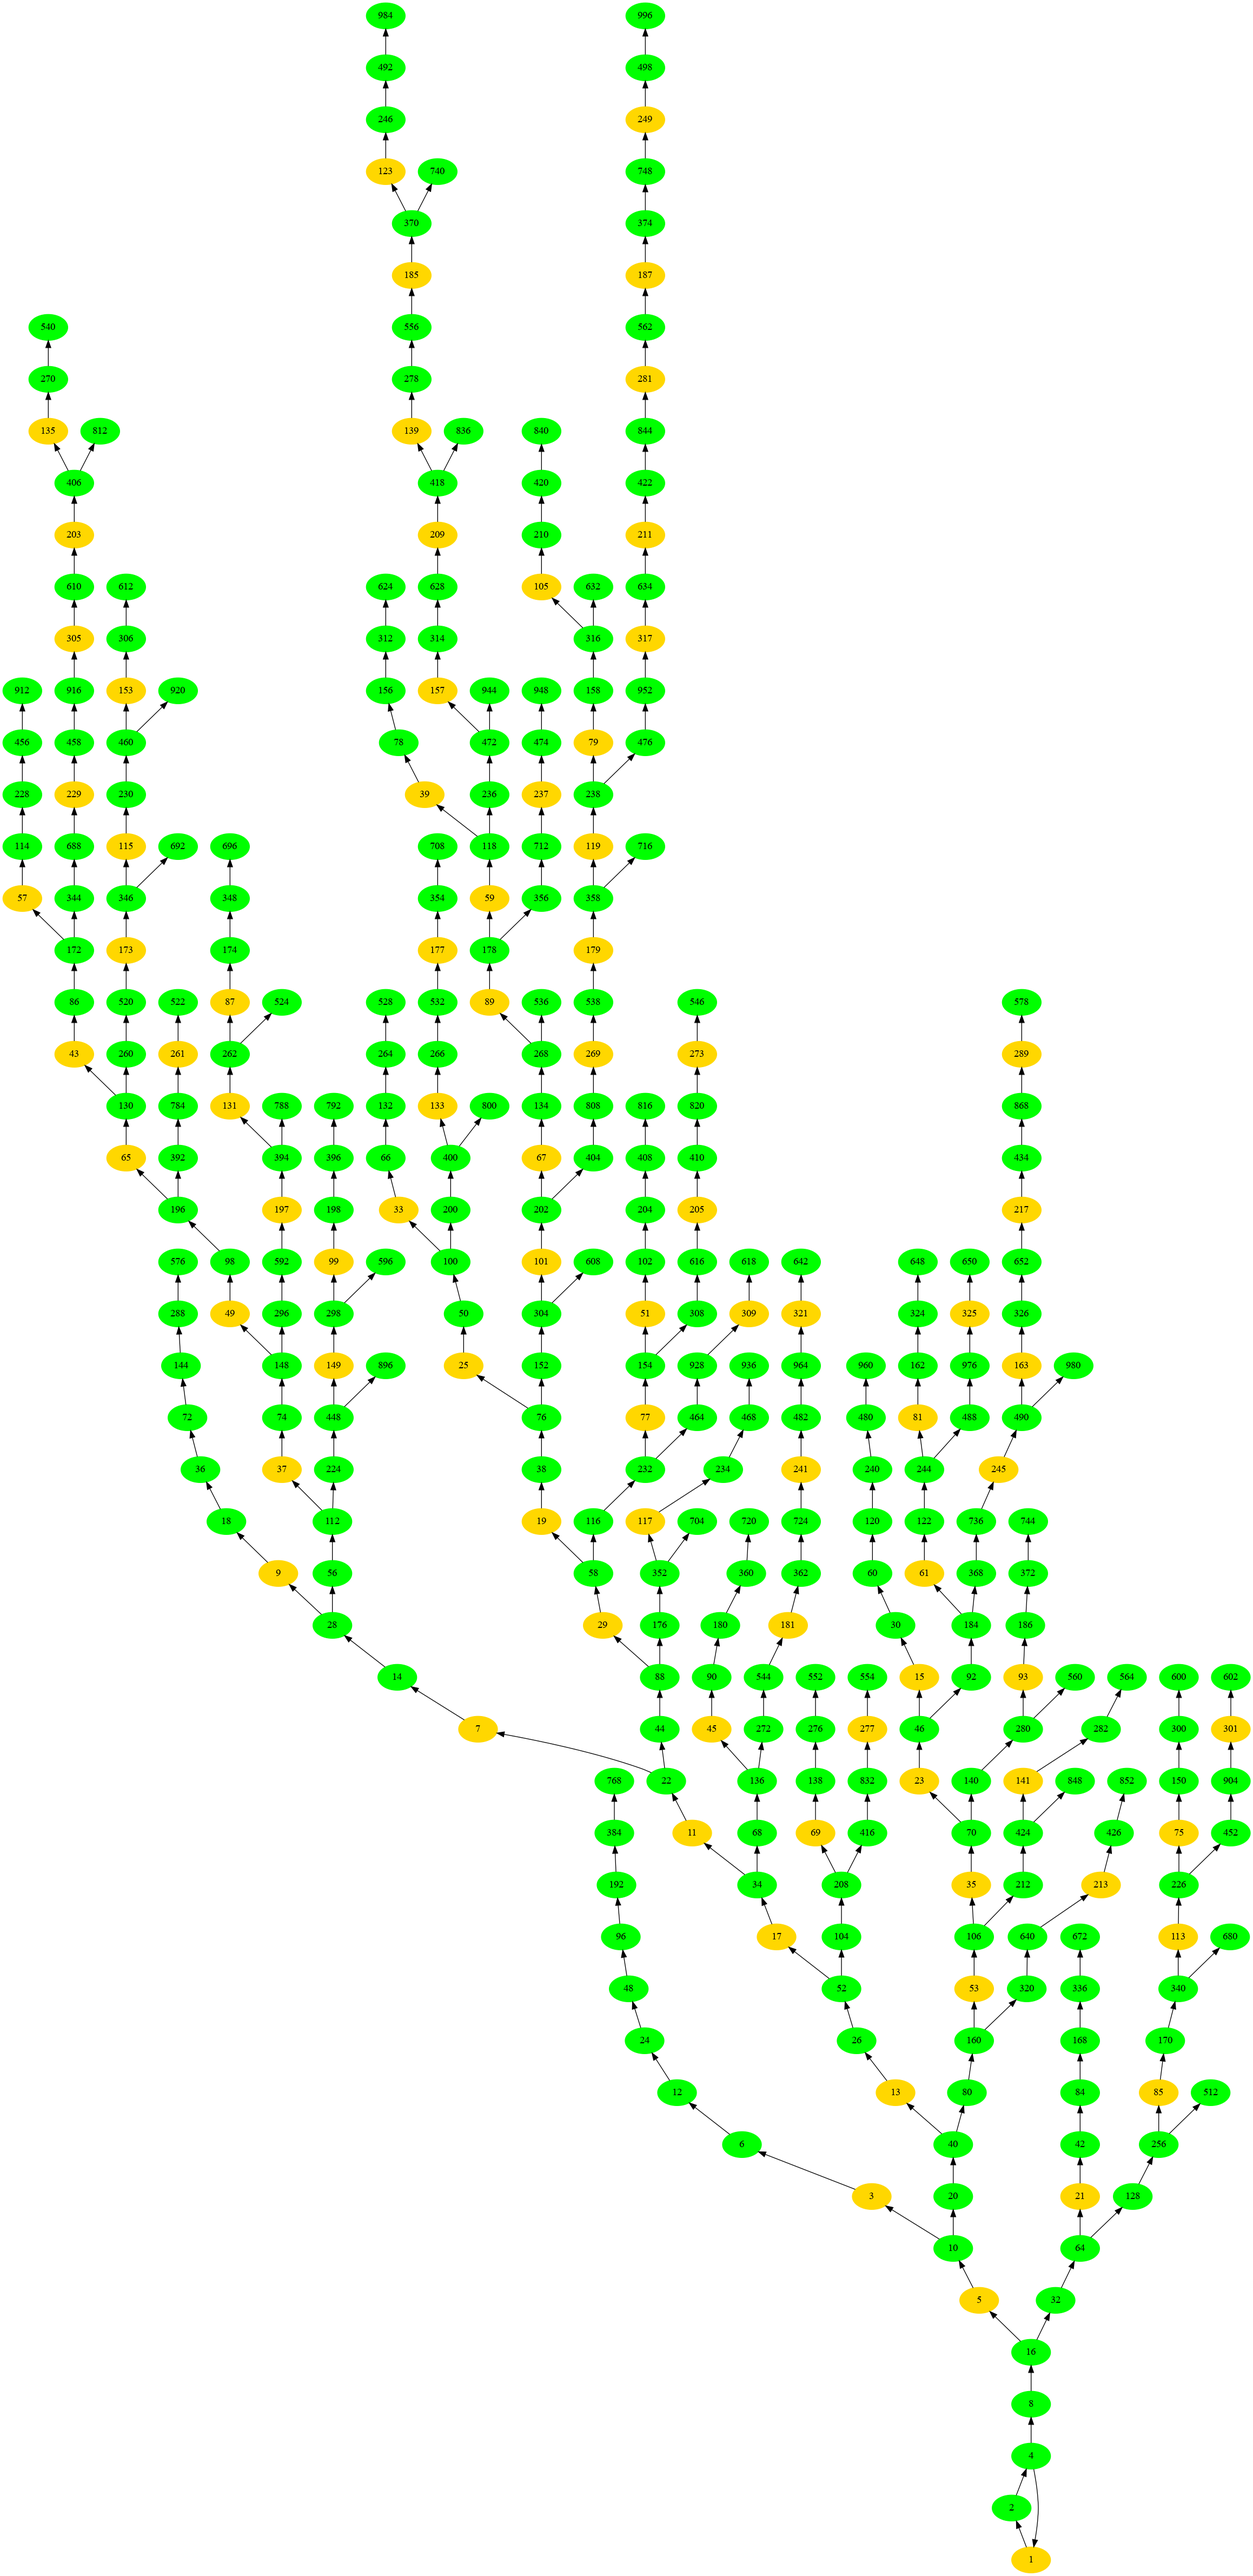
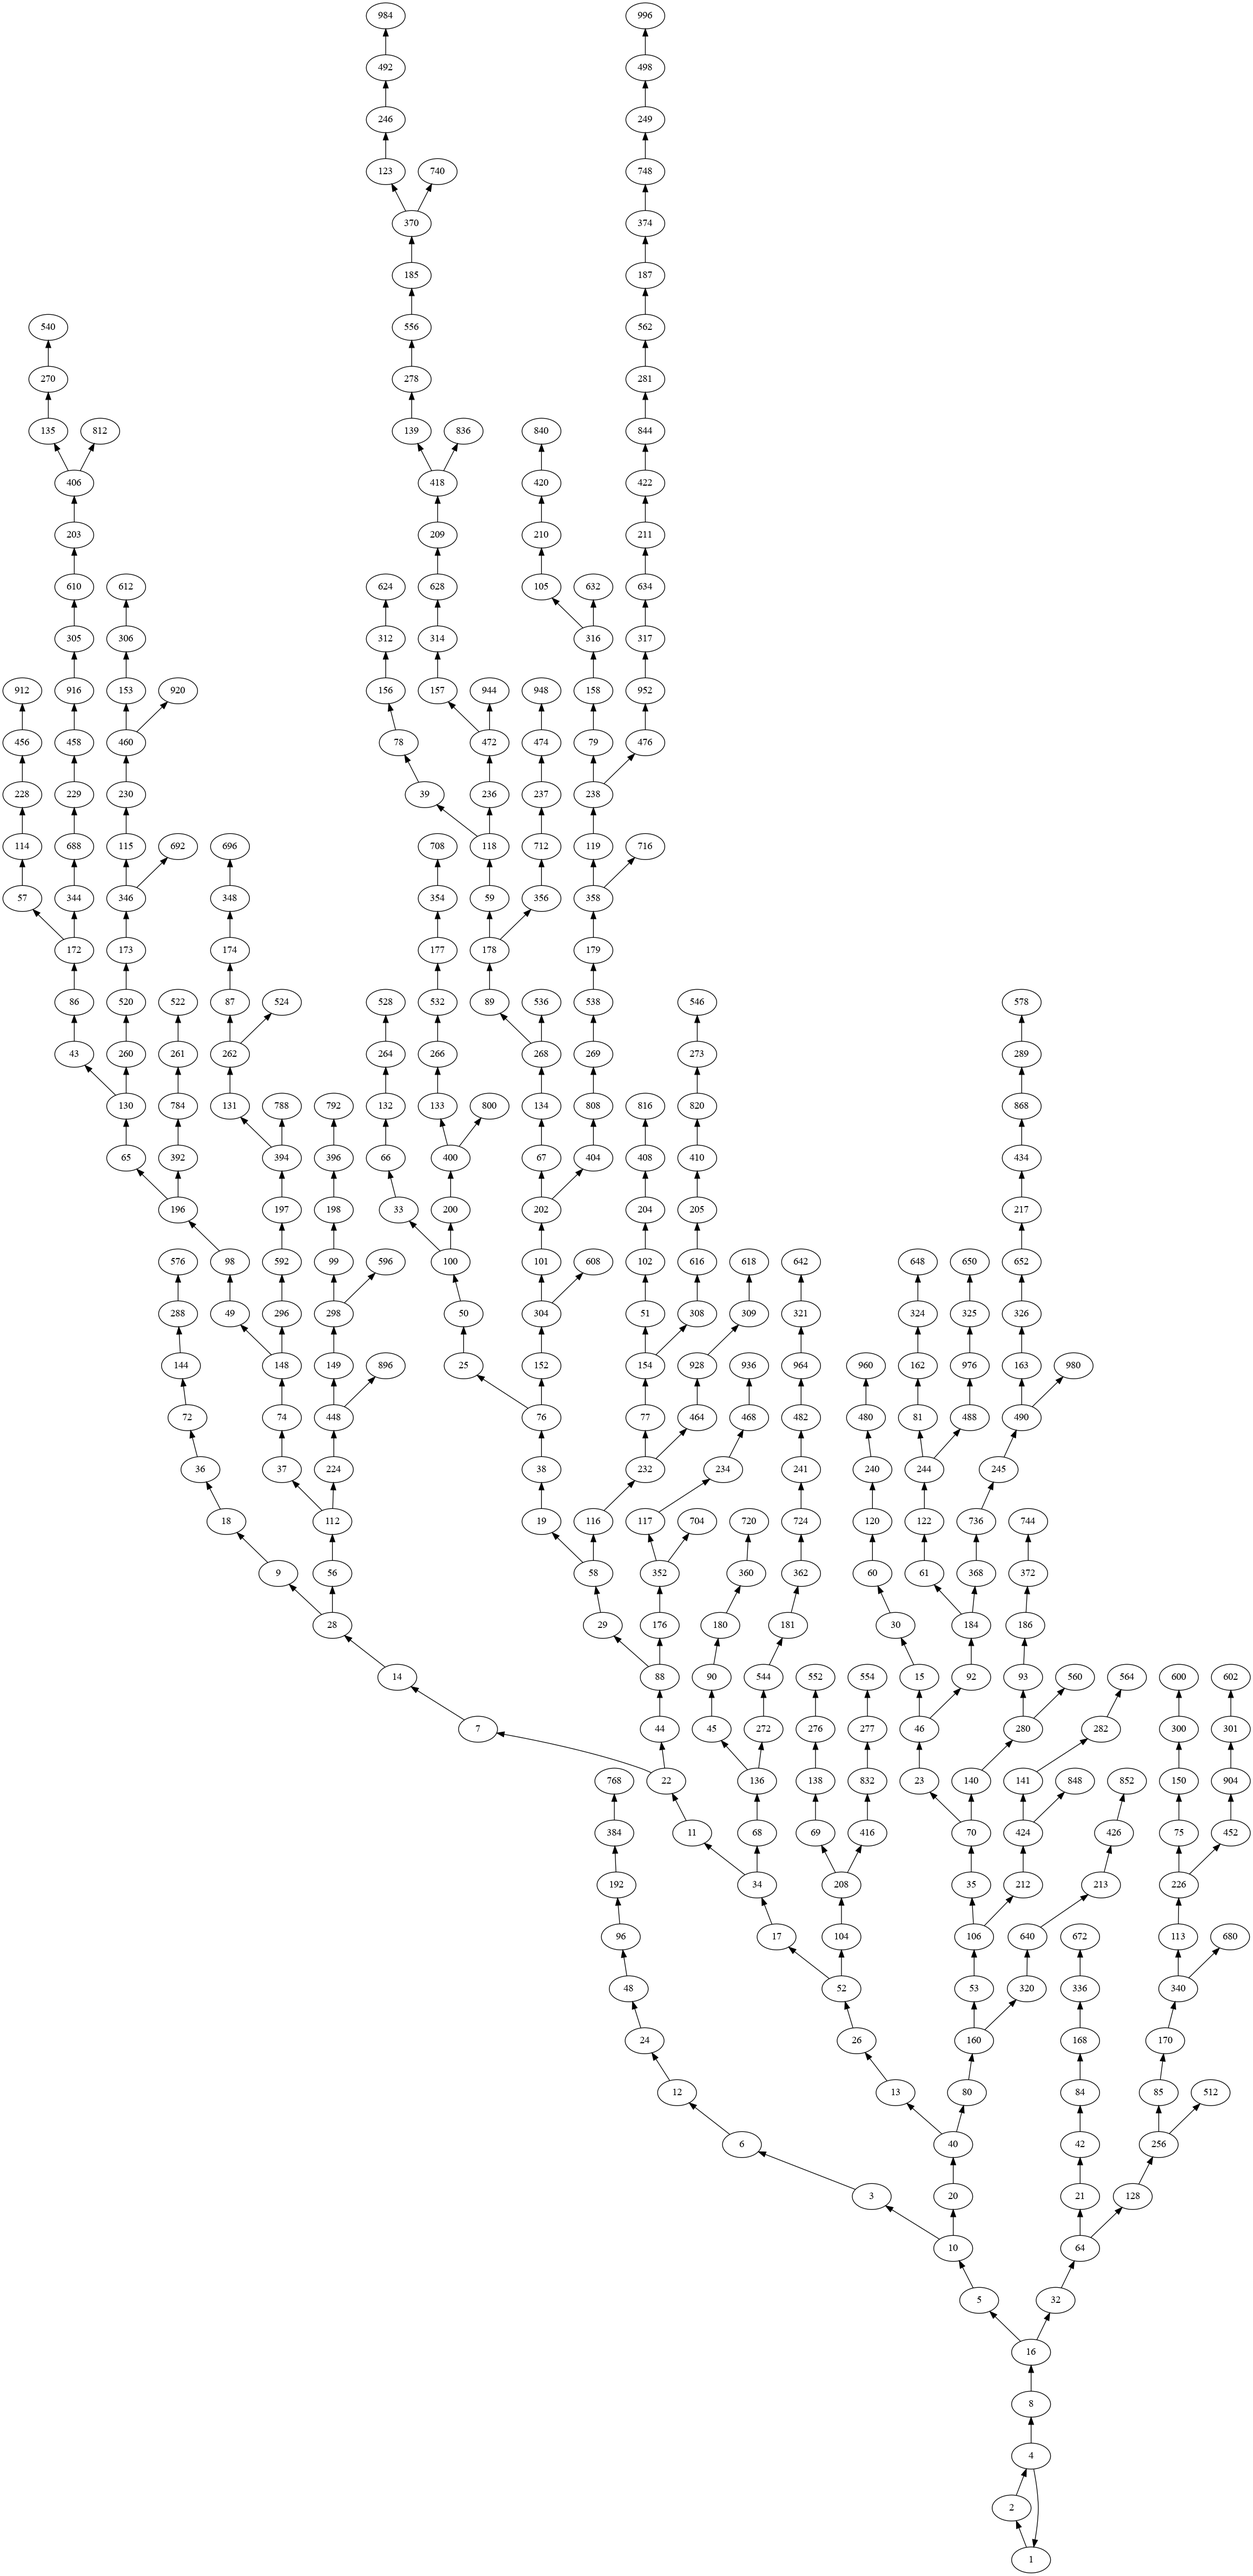
feat: add --tree-fancy argument (#17)
* chore: remove img tree_to_1000.png

This image is not relevant anymore as we have two different options for
the tree.

* chore: add tree image with and without colors

Since we can produce the two versions of the tree, two example images
were added to the repository.

* docs: update README.md

Add images of normal tree and colored tree to the README.md file.

* chore: add --tree-fancy argument

This argument is used as a boolean to produce a dot file containing
colors for the nodes.

diff --git a/src/tree.rs b/src/tree.rs
@@ -40,13 +40,16 @@ impl CollatzTree {
         }
     }
 
-    pub fn to_dot_file(&self) -> Result<(), Box<dyn std::error::Error>> {
+    pub fn to_dot_file(
+        &self,
+        colors: bool,
+    ) -> Result<(), Box<dyn std::error::Error>> {
         let filename: &str = &format!("tree_to_{}.dot", self.target);
         let mut file = File::create(filename)?;
 
         writeln!(&mut file, "digraph to_{} {{", self.target)?;
         writeln!(&mut file, "\trankdir=BT;")?;
-        self.define_node_colors(&mut file)?;
+        self.define_node(&mut file, colors)?;
         for (key, value) in self.tree.iter() {
             if let Some(p_1) = value.0 {
                 writeln!(&mut file, "\t{} -> {:?};", key, p_1)?;
@@ -60,22 +63,35 @@ impl CollatzTree {
         Ok(())
     }
 
-    fn define_node_colors(
+    fn define_node(
         &self,
         file: &mut File,
+        with_style: bool,
     ) -> Result<(), Box<dyn std::error::Error>> {
         let mut sorted_keys: Vec<_> = self.tree.keys().copied().collect();
         sorted_keys.sort();
 
-        writeln!(file, "\t1 [color=gold, style=filled];")?;
+        if with_style {
+            writeln!(file, "{}", self.node_with_style(&1_u128))?;
+        } else {
+            writeln!(file, "\t1;")?;
+        }
         for key in sorted_keys.iter().skip(1) {
-            if key % 2 == 0 {
-                writeln!(file, "\t{} [color=green, style=filled];", key)?;
+            if with_style {
+                writeln!(file, "{}", self.node_with_style(key))?;
             } else {
-                writeln!(file, "\t{} [color=gold, style=filled];", key)?;
+                writeln!(file, "\t{};", key)?;
             }
         }
         Ok(())
+    }
+
+    fn node_with_style(&self, n: &u128) -> String {
+        if n % 2 == 0 {
+            format!("\t{} [color=green, style=filled];", n)
+        } else {
+            format!("\t{} [color=gold, style=filled];", n)
+        }
     }
 }
 

diff --git a/src/main.rs b/src/main.rs
@@ -22,6 +22,9 @@ struct Args {
 
     #[arg(short = 't', long = "tree", default_value_t = false)]
     tree: bool,
+
+    #[arg(short = 'T', long = "tree-fancy", default_value_t = false)]
+    tree_fancy: bool,
 }
 
 fn main() -> Result<(), Box<dyn std::error::Error>> {
@@ -35,9 +38,9 @@ fn main() -> Result<(), Box<dyn std::error::Error>> {
         let collatz_sequence = CollatzSequence::new(s);
         println!("{:?}", collatz_sequence);
 
-        if args.tree {
+        if args.tree || args.tree_fancy {
             let t = CollatzTree::new(s);
-            return t.to_dot_file();
+            return t.to_dot_file(args.tree_fancy);
         }
 
         if args.plot {

diff --git a/README.md b/README.md
@@ -62,7 +62,10 @@ $ cargo run -- -s 27 -p && display sequence_from_27.png
 ![Collatz Sequence for n = 27](rsc/img/sequence_from_27.png)
 
 ## Bottom-up tree
-To build the sequence in a reverse order from 1 to given n, use `--tree` arg.
+To build the sequence in a reverse order from 1 to given n, use `--tree`  (or
+its alias `-t`). You can also use `--tree-fancy` (or its short alias
+`-T`) to create a colourful tree.
+
 This will create the bottom-up tree and export it in a file named
 `tree_to_n.dot`. This file can then be processed into an image with:
 ```terminal
@@ -70,7 +73,17 @@ $ cargo run -- -s 1000 --tree && \
   dot -Tpng tree_to_1000.dot > tree_to_1000.png
 ```
 
-<img src="rsc/img/tree_to_1000.png" height="300">
+<div style="text-align:center;">
+  <figure style="display:inline-block">
+      <img src="rsc/img/tree_to_1000.png" height="300">
+      <figcaption>--tree</figcaption>
+  </figure>
+
+  <figure style="display:inline-block">
+      <img src="rsc/img/colourful_tree_to_1000.png" height="300">
+      <figcaption>--tree-fancy</figcaption>
+  </figure>
+</div>
 
 ## Benchmarking
 Use `-b` or `--benchmark` with a number to compare the efficiency of diverse
